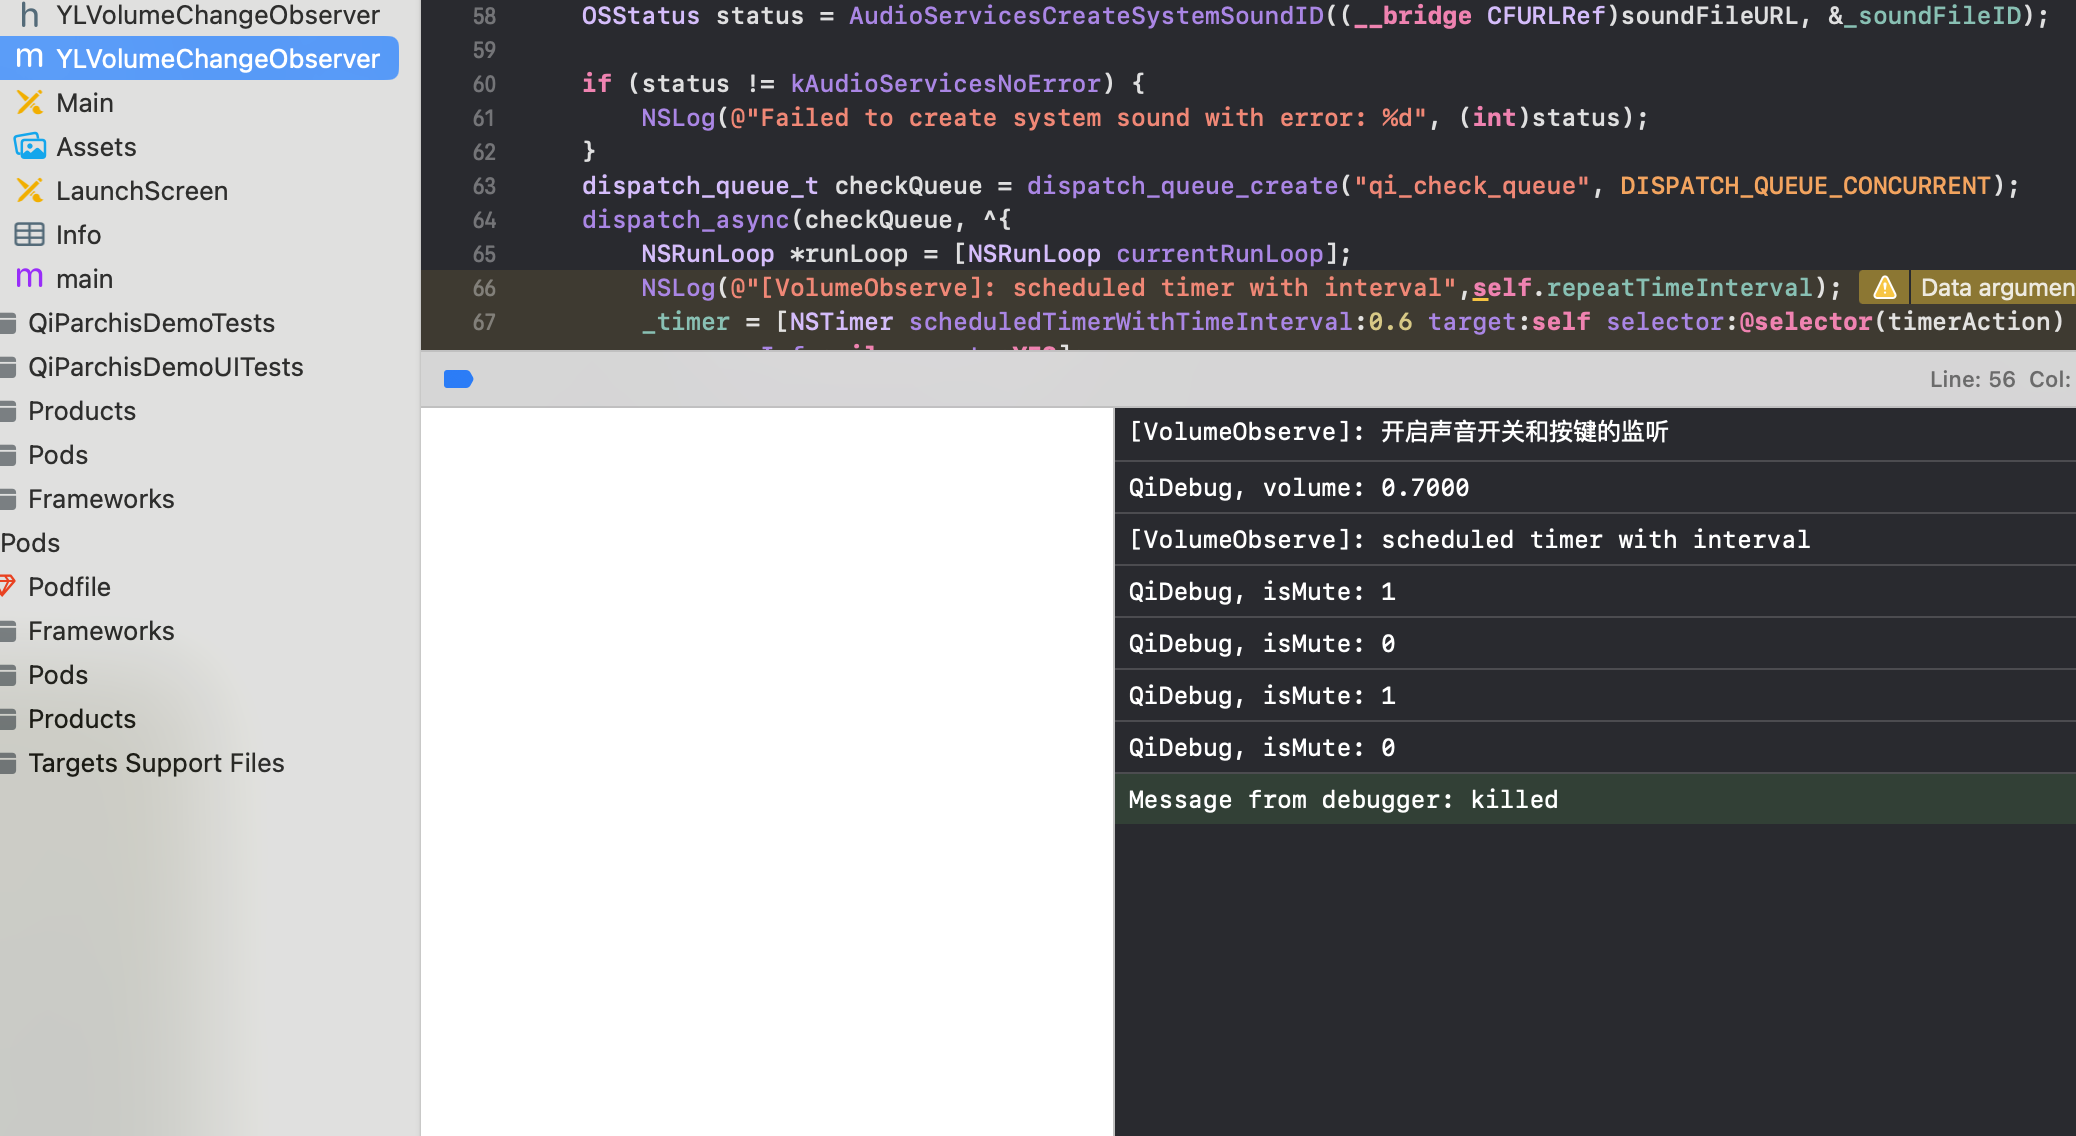
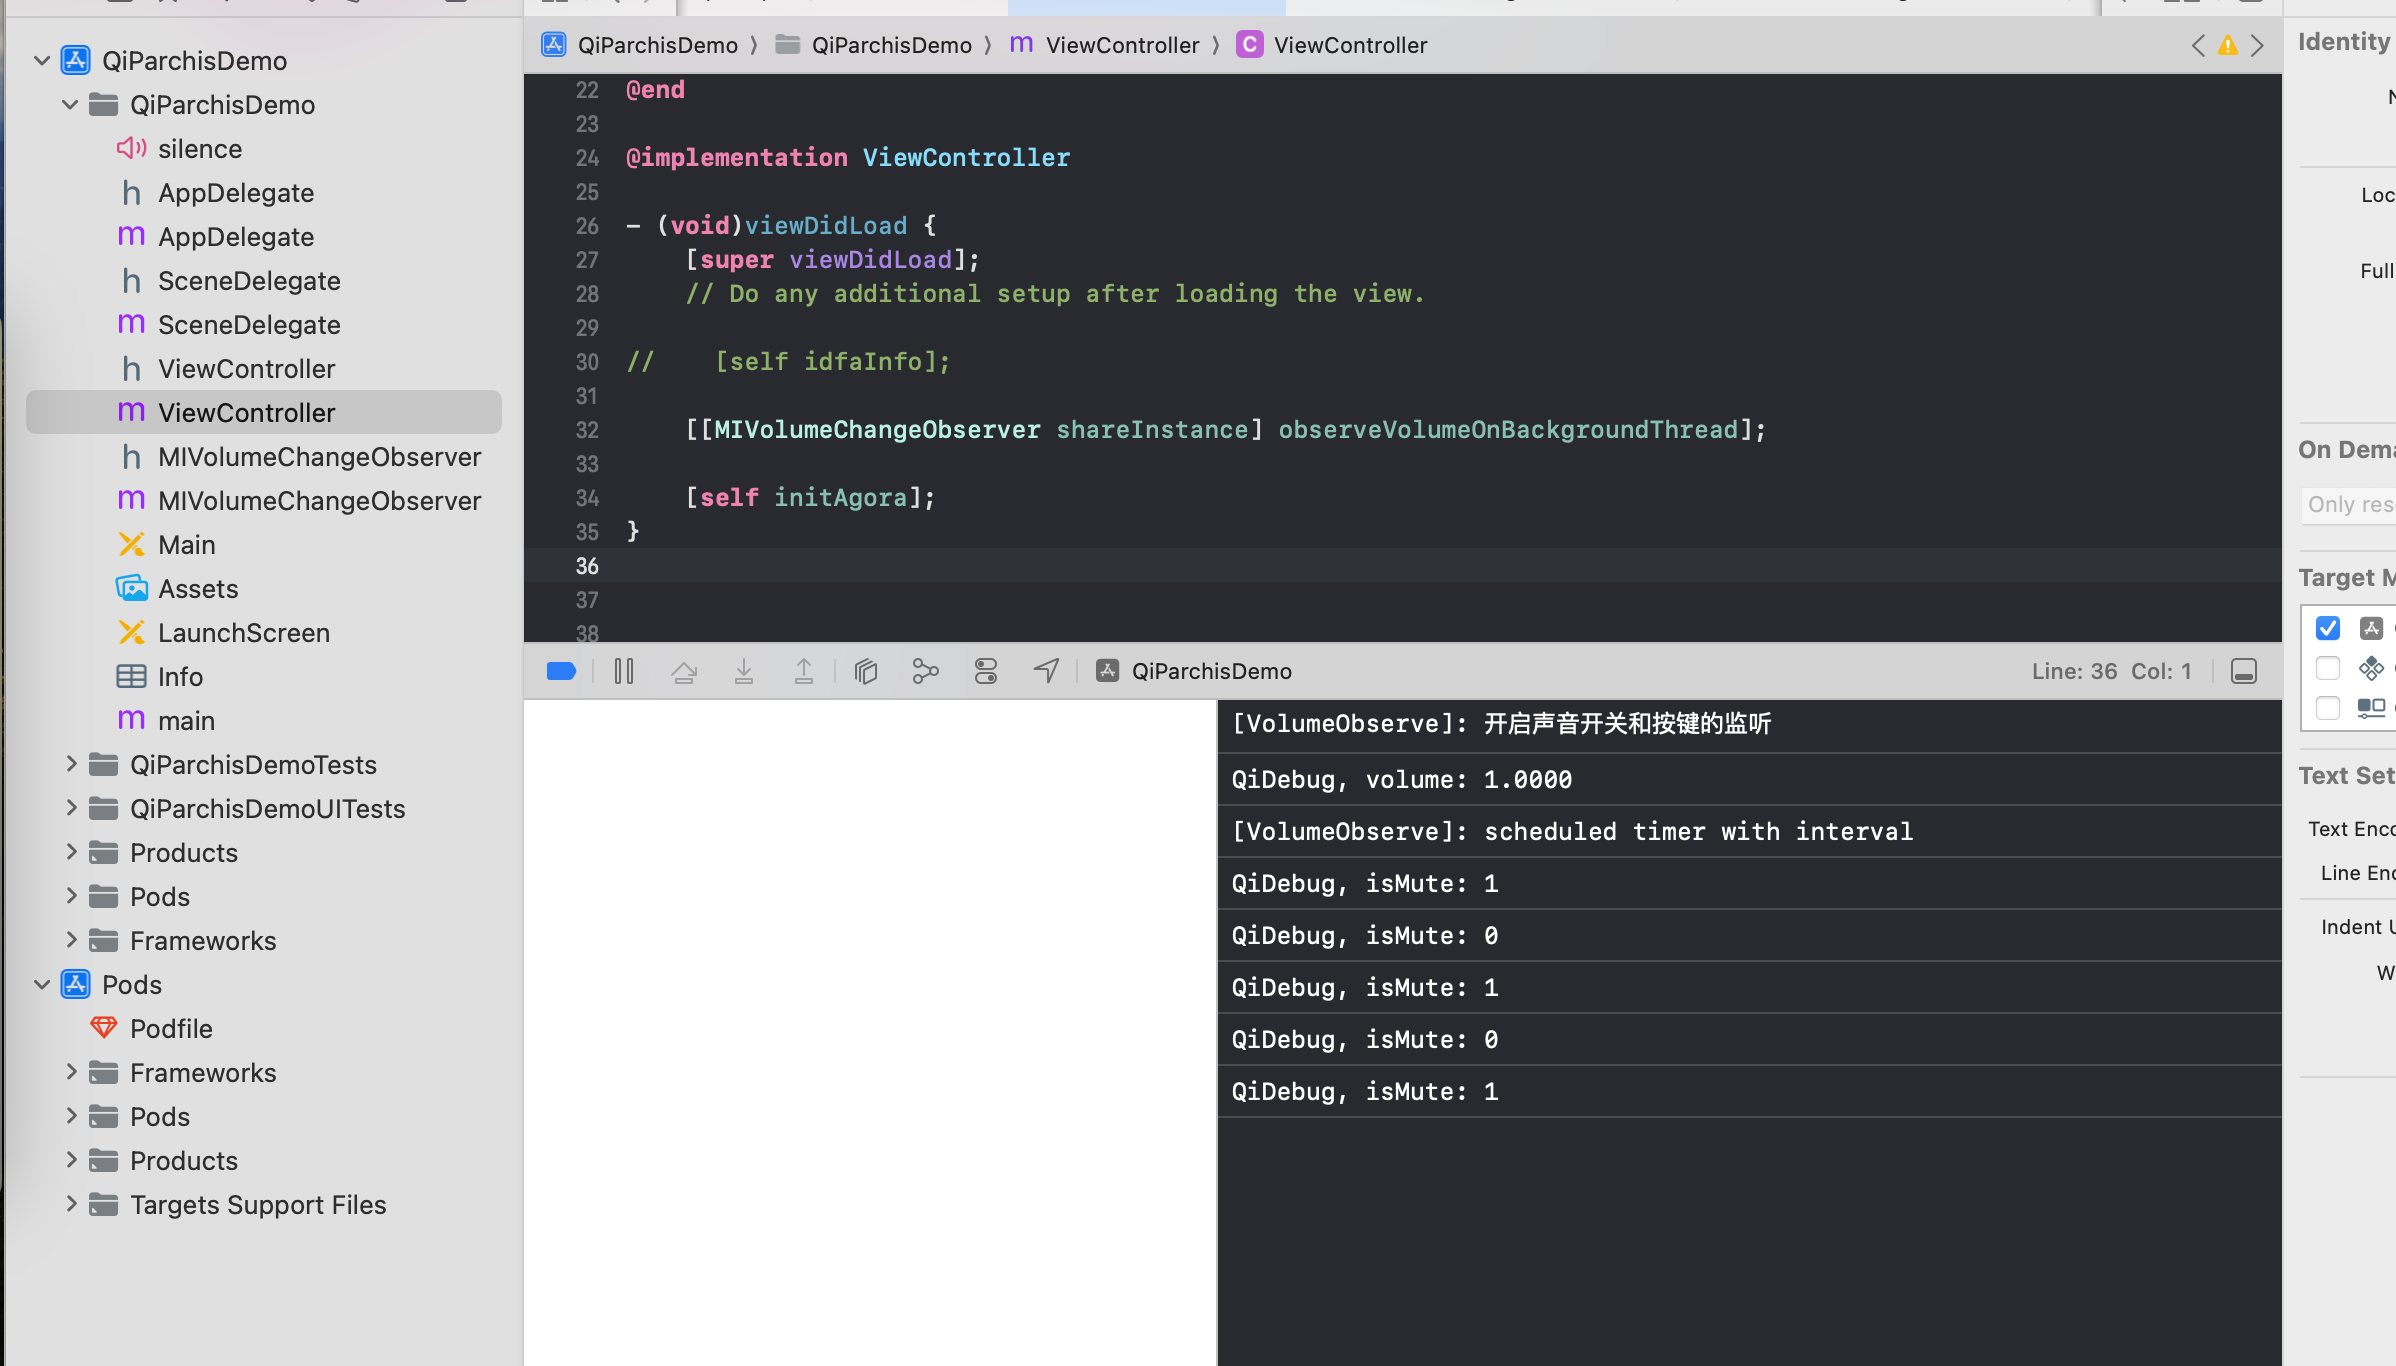
update

diff --git a/MIVolumeChangeObserver.m b/MIVolumeChangeObserver.m
@@ -1,16 +1,16 @@
 //
-//  YLVolumeChangeObserver.m
+//  MIVolumeChangeObserver.m
 //  QiParchisDemo
 //
 //  Created by Qi on 2024/1/23.
 //
 
-#import "YLVolumeChangeObserver.h"
+#import "MIVolumeChangeObserver.h"
 #import <QuartzCore/QuartzCore.h>
 
 
 
-@interface YLVolumeChangeObserver()
+@interface MIVolumeChangeObserver()
 
 @property (nonatomic,assign) CGFloat repeatTimeInterval;
 @property  (nonatomic,assign) BOOL isSystemMute;
@@ -23,10 +23,10 @@
 
 @end
 
-@implementation YLVolumeChangeObserver
+@implementation MIVolumeChangeObserver
 
 
-static YLVolumeChangeObserver *yl_instance = NULL;
+static MIVolumeChangeObserver *mi_instance = NULL;
 
 - (instancetype)init
 {
@@ -41,10 +41,10 @@ static YLVolumeChangeObserver *yl_instance = NULL;
 
 + (instancetype)shareInstance
 {
-    if(yl_instance == NULL){
-        yl_instance = [[YLVolumeChangeObserver alloc] init];
+    if(mi_instance == NULL){
+        mi_instance = [[MIVolumeChangeObserver alloc] init];
     }
-    return yl_instance;
+    return mi_instance;
 }
 
 

diff --git a/MIVolumeChangeObserver.h b/MIVolumeChangeObserver.h
@@ -1,5 +1,5 @@
 //
-//  YLVolumeChangeObserver.h
+//  MIVolumeChangeObserver.h
 //  QiParchisDemo
 //
 //  Created by Qi on 2024/1/23.
@@ -11,7 +11,7 @@
 
 NS_ASSUME_NONNULL_BEGIN
 
-@interface YLVolumeChangeObserver : NSObject
+@interface MIVolumeChangeObserver : NSObject
 
 + (instancetype)shareInstance;
 - (void)observeVolumeOnBackgroundThread;
